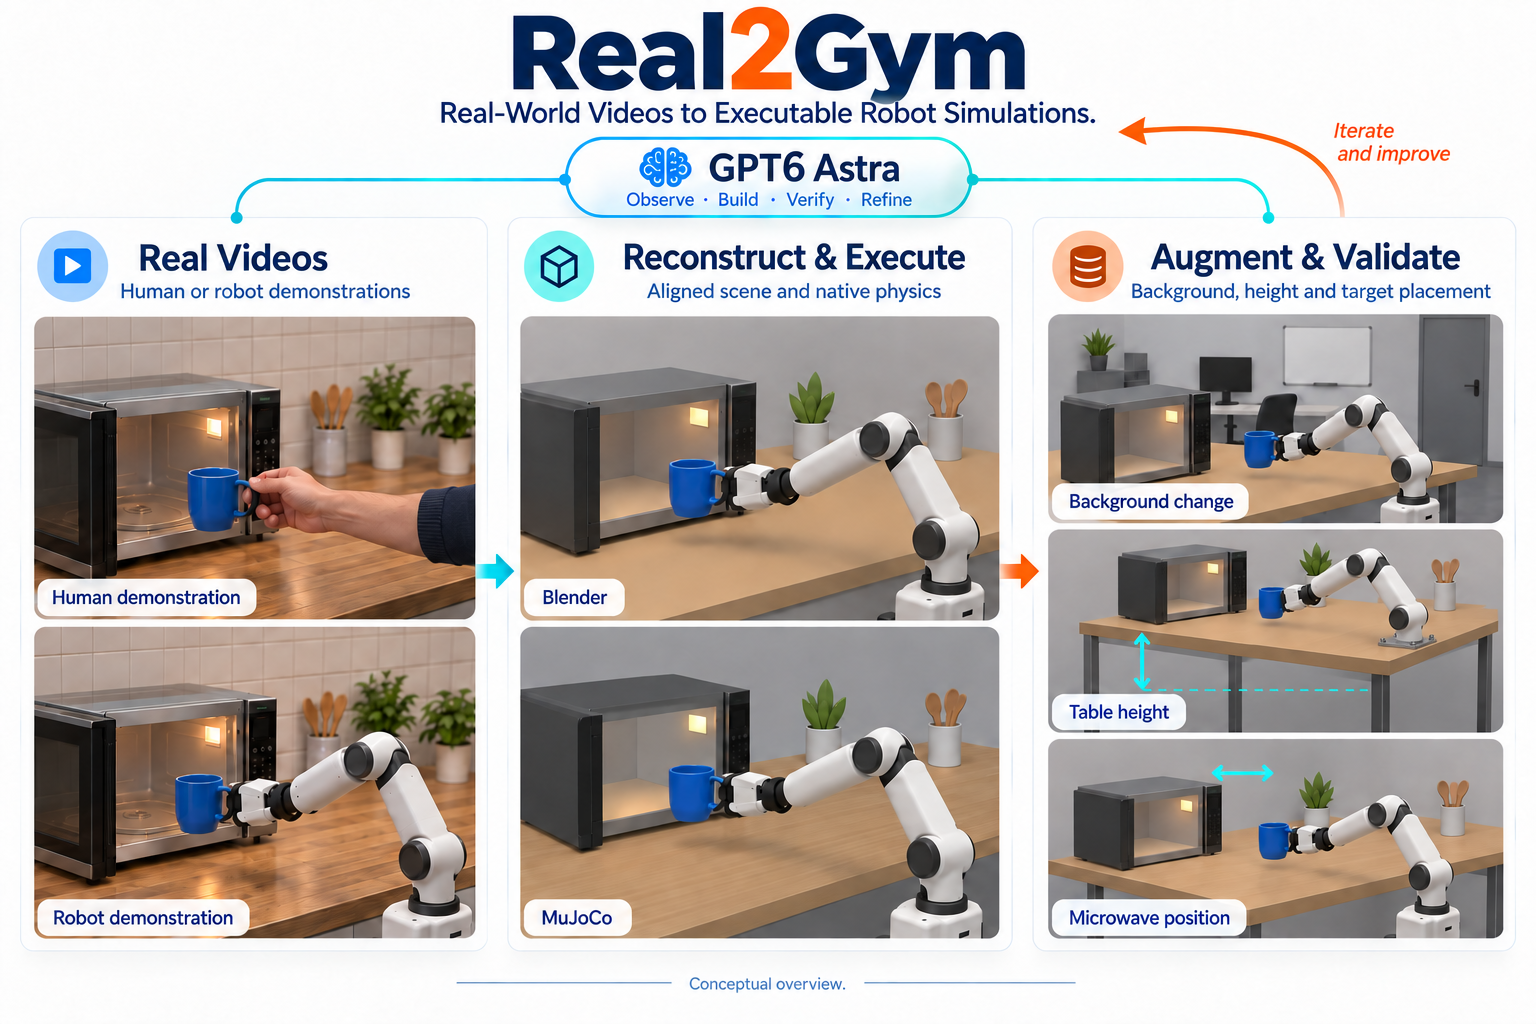
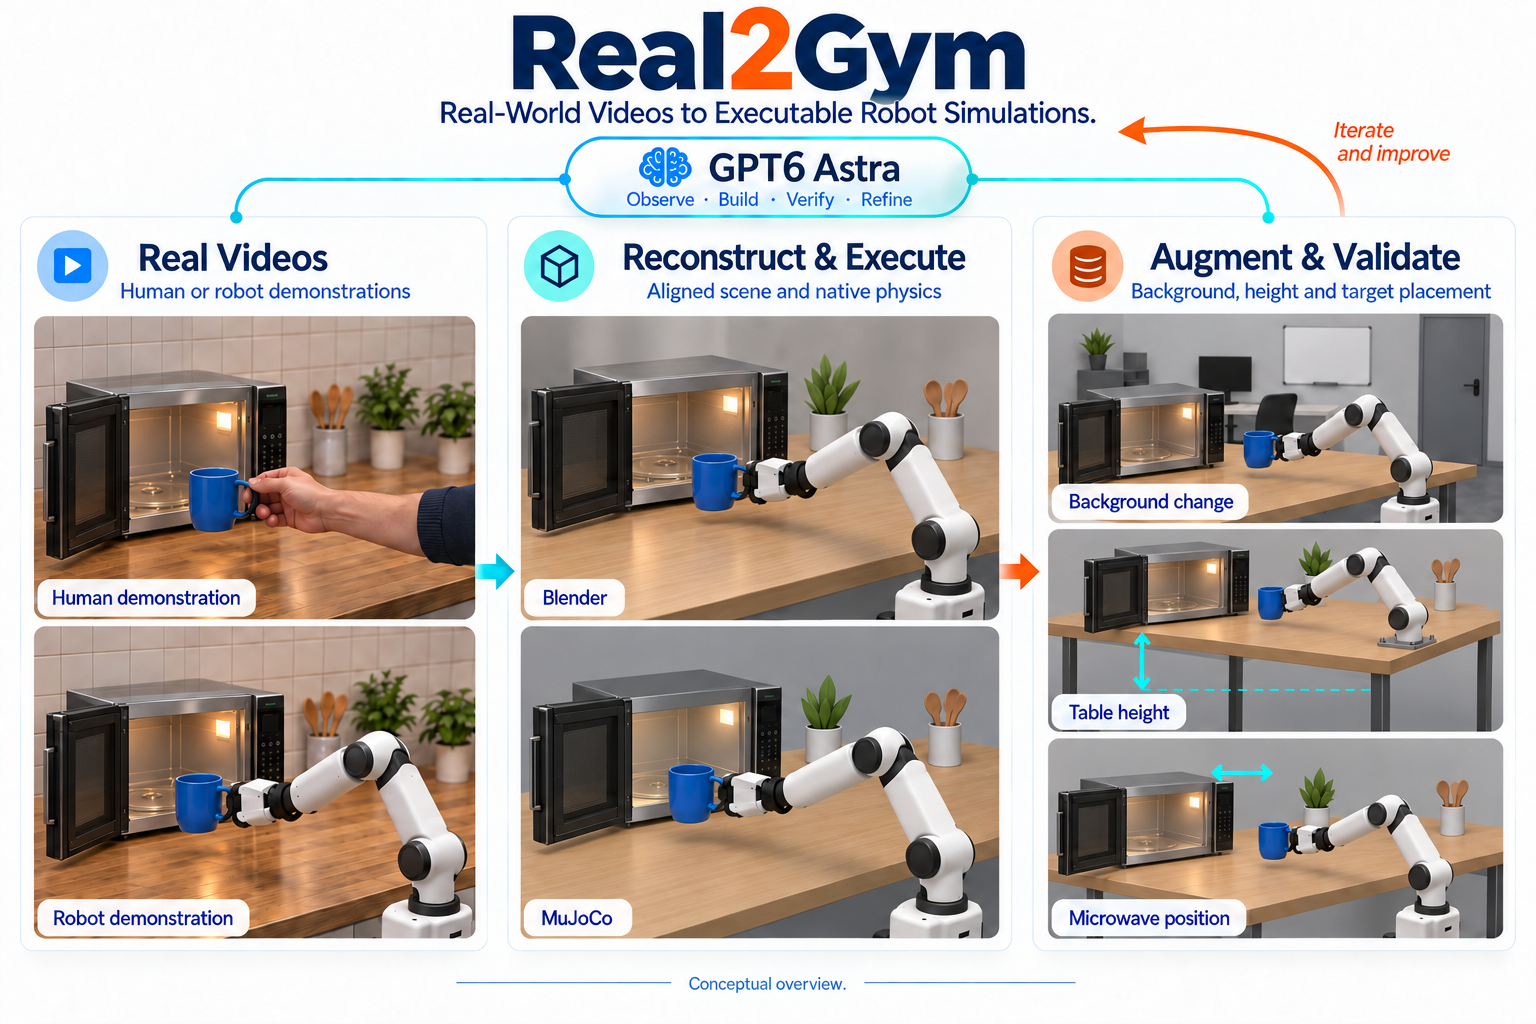
Refine Blender appearance and microwave doors in overview

diff --git a/assets/README.md b/assets/README.md
@@ -7,7 +7,8 @@ Generated with the built-in image tool after user authorization. The tool does n
 - [Design brief](hero-prompt.txt)
 - [Exact generation prompt](hero-generation-prompt.txt)
 - [Revision prompts: single-arm alignment and simplified simulation appearance](hero-revision-prompts.json)
-- [Latest revision prompts: input branches, both simulators, table and target changes](hero-revision3-prompts.json)
+- [Earlier revision prompts: input branches, both simulators, table and target changes](hero-revision3-prompts.json)
+- [Latest revision: Blender realism and microwave doors](hero-revision4-prompt.txt)
 - [Generation and review record](hero-generation.json)
 
 This is conceptual AI-generated artwork, not a real input video, a simulator render or benchmark evidence. Depicted robots, tool marks and environments are illustrative; no endorsement is implied. The three illustration panels summarize the framework rather than replacing its detailed three-step workflow.
